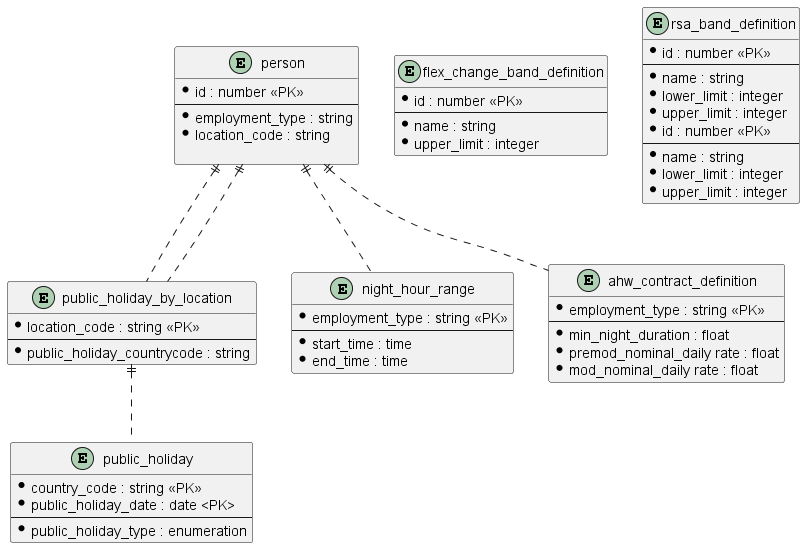
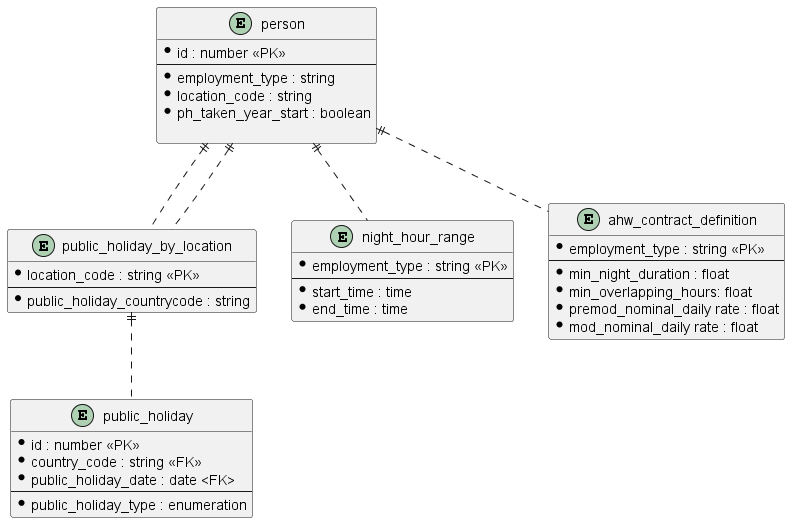
Add separate sections for each type of data

diff --git a/docs/storage.md b/docs/storage.md
@@ -110,9 +110,35 @@ There are several attributes of a person that will be required by the Accruals c
 |location_code|string|true|none|Key into the location table i.e BIRMINGHAM_INTERNATIONAL_AIRPORT|
 
 
+<h2 id="tocS_Public_Holiday">public_holiday</h2>
+
+Different nations within the United Kingdom have different Public Holidays and therefore configuration is required to permit this flexibility to be configured. In addition certain Public Holidays occur on different dates depending upon the calendar year.
+
+### Properties
+|Name|Type|Required|Restrictions|Description|
+|---|---|---|---|---|
+|id| PK| true|none|Assigned when a new row is added to this table by the owning service|
+|country_code| FK| true|none|The countrycode - England, Scotland, Wales, NI for Public Holiday purposes|
+|public_holiday_date|date|true|none|The date of the public holiday|
+|public_holiday_type|enumeration|true|none|Statutory, Substitute|
+
+
+<h2 id="tocS_Public_Holiday_By_Location">public_holiday_by_location</h2>
+
+Different nations within the United Kingdom have different Public Holidays and therefore configuration is required to permit this flexibility to be configured. This table allows every location to have a country code assigned.
+
+### Properties
+|Name|Type|Required|Restrictions|Description|
+|---|---|---|---|---|
+|id| PK| true|none|Assigned when a new row is added to this table by the owning service|
+|location_code| FK| true|none|The countrycode - England, Scotland, Wales, NI for Public Holiday purposes|
+|public_holiday_countrycode| | true|none|The countrycode - England, Scotland, Wales, NI for Public Holiday purposes|
+
+
+
 <h2 id="tocS_Night_Hour_Range">night_hour_range</h2>
 
-Night shifts are normally rostered between the hours of 06.00 – 23.00hrs but this can vary based on AHW employment typoe i.e AHA, SDA etc.
+Night shifts are normally rostered between the hours of 06.00 – 23.00hrs but this can vary based on AHW employment typoe i.e AHA, SDA etc. A shift/time-entry can be classified as Night one if it overlaps by MinimumOverlappingHoursRequired (e.g. 3 hours) or more with this range.
 
 ### Properties
 |Name|Type|Required|Restrictions|Description|
@@ -122,6 +148,29 @@ Night shifts are normally rostered between the hours of 06.00 – 23.00hrs but t
 |start_time|string|true|none|The time when a night shift must start on or after to qualify as a night shift|
 |end_time|string|true|none|The time when a night shift must end on or before to qualify as a night shift|
 
+
+
+<h2 id="tocS_AHW_Type_Definition">AHW_type_definition</h2>
+
+Staff on different AHW contract types (AAA, SDA etc) have different parameters which affect the calculation of their accruals. This table holds those variations
+
+### Properties
+
+|Name|Type|Required|Restrictions|Description|
+|---|---|---|---|---|
+|id| PK| true|none|Assigned when a new row is added to this table by the owning service|
+|employment_type| FK| true|none|The employment_type for this individual from the person record|
+|min_night_duration|float|true|none|Minimum duration of a night shift to qualify|
+|premod_nominal_daily_rate|float|true|none|Number of hours for a day of full time premodernised employee| 
+|mod_nominal_daily_rate|float|true|none|Number of hours for a day of full time modernised employee| 
+
+# Reference Data owned solely by accruals
+
+If there are tables that exist as reference data used and maintained solely by this service are documented here
+
+Their relationship to the other tables is depicted below
+
+![storage-model-ref-internal.png](./images/storage-model-ref-internal.png)
 
 <h2 id="tocS_Flex_Change_Band_Definition">flex_change_band_definition</h2>
 
@@ -147,23 +196,3 @@ Staff who are on a shift roster basis can qualify for the Rostered Shift Allowan
 |name|string|true|none|There are 4 levels of flexibility represented by this table at present, A, B, C or D|
 |lower\_limit|integer|true|none|Currently the upper limits for bands A through D are 11, 8, 5 , 1| 
 |upper\_limit|integer|true|none|Currently the upper limits for bands A through D are 999, 10, 7, 4|
-
-
-<h2 id="tocS_Contract_Type_Definition">contract_type_definition</h2>
-
-Staff on different AHW contract types (AAA, SDA etc) have different parameters which affect the calculation of their accruals. This table holds those variations
-
-### Properties
-
-|Name|Type|Required|Restrictions|Description|
-|---|---|---|---|---|
-|id| PK| true|none|Assigned when a new row is added to this table by the owning service|
-|employment_type| FK| true|none|The employment_type for this individual from the person record|
-|min_night_duration|float|true|none|Minimum duration of a night shift to qualify|
-|premod_nominal_daily_rate|float|true|none|Number of hours for a day of full time premodernised employee| 
-|mod_nominal_daily_rate|float|true|none|Number of hours for a day of full time modernised employee| 
-
-# Reference Data owned solely by accruals
-
-If there are tables that exist as reference data used and maintained solely by this service they will be documented here:
-
